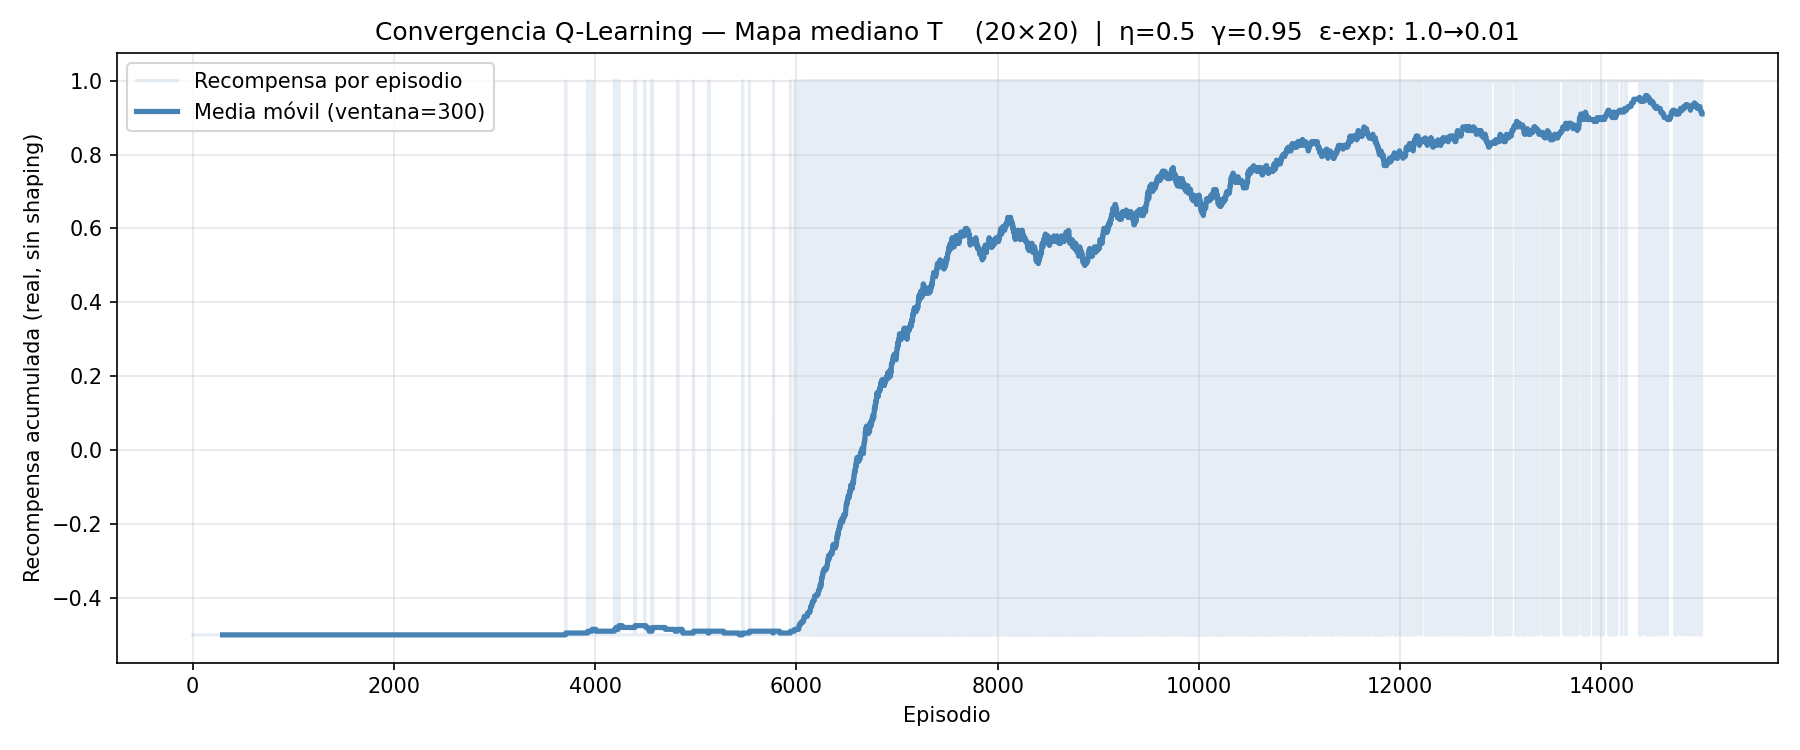
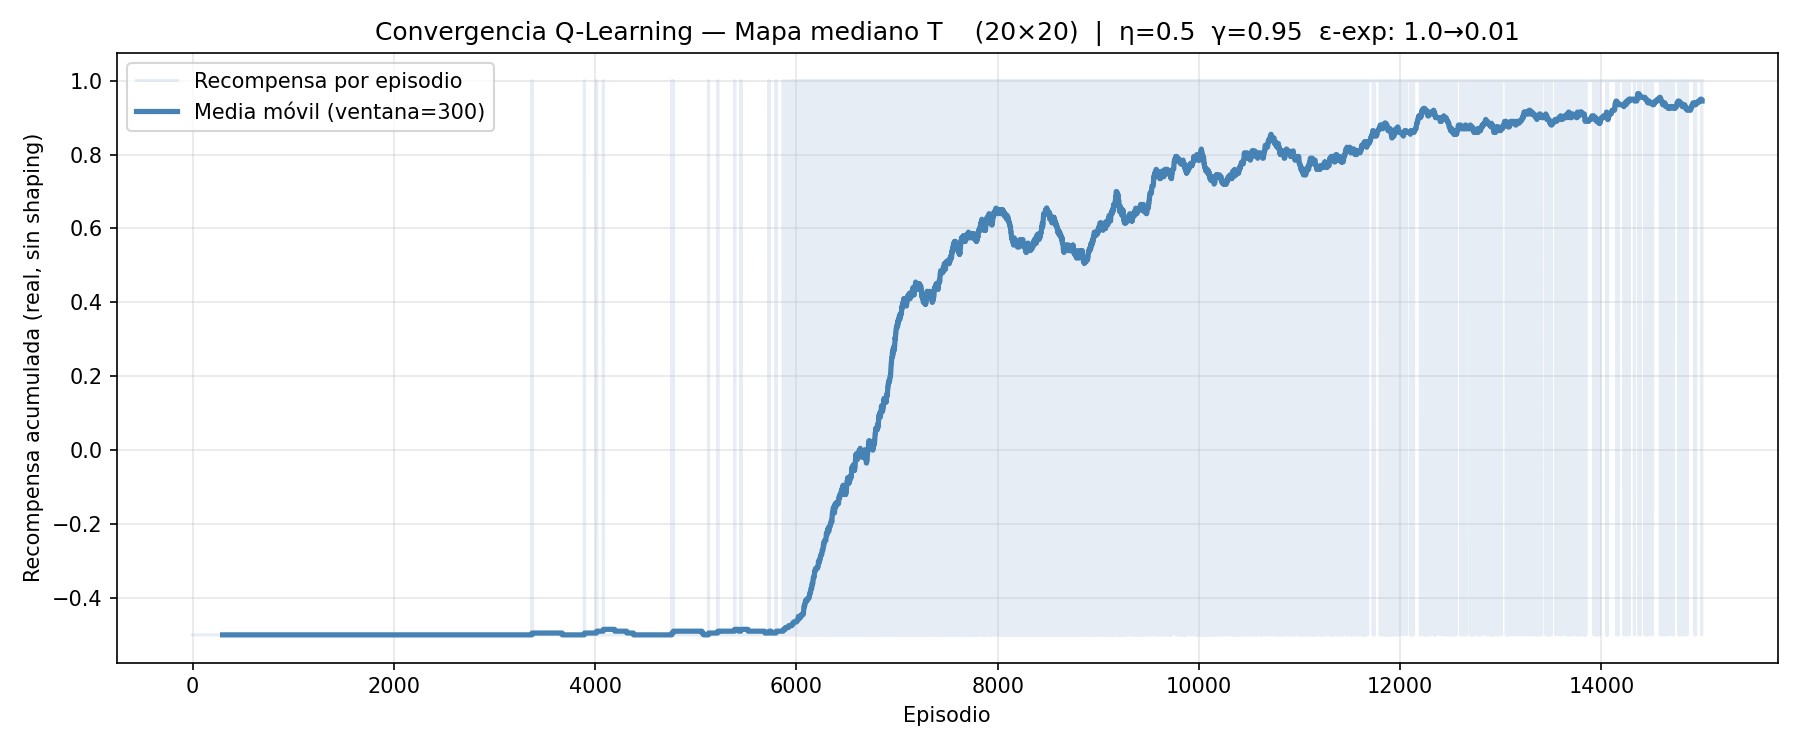
Objetivo conseguido

Changed region(s): [[0.5289, 0.1227, 0.9644, 0.368], [0.28, 0.4907, 0.4978, 0.8587], [0.4978, 0.3373, 0.5289, 0.46]]

diff --git a/simuladores_gymnasium/practica_gymnasium.py b/simuladores_gymnasium/practica_gymnasium.py
@@ -22,6 +22,7 @@ import argparse
 import gymnasium as gym
 import gymnasium_csv                                          # Entorno personalizado basado en CSV
 from gymnasium.spaces import Discrete
+from collections import deque
 
 class BoxToDiscreteObservation(gym.ObservationWrapper):
     def __init__(self, env):
@@ -90,15 +91,28 @@ MAPAS = {
         # Diseño: laberinto grid denso con muchos pasillos y giros
         # Requiere más episodios para explorar el laberinto
         epis          = 50000,
-        max_pasos     = 1000,
+        max_pasos     = 3000,
         epsilon_decay = 0.999908,
+    ),
+    5: dict(
+        nombre        = 'Mapa gigante      (50×50)',
+        archivo       = 'map5.csv',
+        initX=1,  initY=1,
+        goalX=48, goalY=48,
+        cols          = 50,
+        # 300k episodios cortos (1500 pasos): el agente encuentra la meta
+        # con alta probabilidad durante la fase de exploración (ε~0.4),
+        # luego la explotación refina el camino óptimo.
+        epis          = 400000,
+        max_pasos     = 1500,
+        epsilon_decay = 0.999985,  # ε llega a 0.01 en ~ep 300k
     ),
 }
 
 parser = argparse.ArgumentParser(description='Q-Learning en mapa CSV con Gymnasium')
 parser.add_argument(
-    '--mapa', type=int, default=1, choices=[1, 2, 3, 4],
-    help='Mapa a usar: 1=del profesor (12×12)  2=mediano-T (20×20)  3=grande-C (30×30)  4=laberinto (30×27)'
+    '--mapa', type=int, default=1, choices=[1, 2, 3, 4, 5],
+    help='Mapa a usar: 1=del profesor (12×12)  2=mediano-T (20×20)  3=grande-C (30×30)  4=laberinto (30×27)  5=gigante (50×50)'
 )
 args = parser.parse_args()
 cfg = MAPAS[args.mapa]   # Configuración del mapa elegido
@@ -129,13 +143,34 @@ env_train_raw = gym.make(
 )
 env_train = BoxToDiscreteObservation(env_train_raw)   # Obs (fila,col) → índice entero
 
+# --- Precomputar distancias BFS a la meta para un Reward Shaping perfecto ---
+# Extraemos el grid del entorno (0=libre, 1=muro, 2=inicio, 3=meta)
+grid = env_train_raw.unwrapped.inFile
+rows, cols = grid.shape
+bfs_distances = np.full((rows, cols), np.inf)
+queue = deque([(META_X, META_Y)])
+bfs_distances[META_X, META_Y] = 0.0
+
+# Direcciones: 4 cardinales + 4 diagonales
+directions = [(0,1), (0,-1), (1,0), (-1,0), (1,1), (1,-1), (-1,1), (-1,-1)]
+
+while queue:
+    r, c = queue.popleft()
+    d = bfs_distances[r, c]
+    for dr, dc in directions:
+        nr, nc = r + dr, c + dc
+        if 0 <= nr < rows and 0 <= nc < cols and grid[nr, nc] != 1 and bfs_distances[nr, nc] == np.inf:
+            bfs_distances[nr, nc] = d + 1.0
+            queue.append((nr, nc))
+
 # ---------------------------------------------------------------------------
 # 2. INICIALIZACIÓN DE LA Q-TABLE
 # ---------------------------------------------------------------------------
 
 # Dimensiones: nS estados × nA acciones
 # nS = filas × columnas del mapa  |  nA = 8 (8 direcciones cardinales + diagonales)
-Q = np.ones([env_train.observation_space.n, env_train.action_space.n]) * 2.0
+# Inicialización en 0.0 (ahora usamos reward shaping en vez de puro optimismo)
+Q = np.zeros([env_train.observation_space.n, env_train.action_space.n])
 
 # ---------------------------------------------------------------------------
 # 3. PARÁMETROS DEL ALGORITMO Q-LEARNING
@@ -168,9 +203,10 @@ for episodio in range(epis):
     terminado = False
     paso = 0
 
-    # Distancia Manhattan inicial al objetivo (para reward shaping)
+    # Distancia BFS inicial al objetivo (para reward shaping)
     fila_s, col_s = divmod(s, COLS)
-    dist_ant = abs(fila_s - META_X) + abs(col_s - META_Y)
+    dist_ant = bfs_distances[fila_s, col_s]
+    if dist_ant == np.inf: dist_ant = 1000.0  # fallback por si acaso
 
     while not terminado and paso < max_pasos:
         paso += 1
@@ -186,16 +222,25 @@ for episodio in range(epis):
         # --- Ejecutamos la acción en el entorno ---
         s1, recompensa, terminado, _, _ = env_train.step(accion)
 
-        # --- Actualización Q-Table: regla de Bellman con Inicialización Optimista ---
-        # Como Q empieza en 2.0 (muy optimista), el agente explorará sistemáticamente
-        # las rutas desconocidas porque sus valores Q bajarán cuando no encuentren la meta.
-        # Esto evita crear mínimos locales y hace innecesario el "reward shaping".
-        
+        # Distancia nueva para reward shaping (usando BFS)
+        fila_s1, col_s1 = divmod(s1, COLS)
+        dist_nueva = bfs_distances[fila_s1, col_s1]
+        if dist_nueva == np.inf: dist_nueva = 1000.0
+
+        # --- Actualización Q-Table con Reward Shaping ---
         # El futuro es nulo si chocamos contra un muro o llegamos a la meta
         futuro = 0.0 if terminado else np.max(Q[s1, :])
         
-        # Penalización por cada paso dado (-0.01) para forzar el camino más corto
-        recompensa_paso = (recompensa - 0.01) if not terminado else recompensa
+        # Reward shaping basado en acercarse/alejarse de la meta
+        # El coeficiente escala con el tamaño del mapa para que el gradiente
+        # sea siempre dominante frente a la penalización de paso (-0.01)
+        shaping_k = 0.5   # aumentado de 0.4 a 0.5 para asegurar avance
+        if not terminado:
+            shaping = shaping_k * (dist_ant - dist_nueva)
+            # Penalización por cada paso dado (-0.01) + Shaping guiado
+            recompensa_paso = (recompensa - 0.01) + shaping
+        else:
+            recompensa_paso = recompensa
 
         Q[s, accion] = Q[s, accion] + eta * (
             recompensa_paso + gamma * futuro - Q[s, accion]
@@ -203,6 +248,7 @@ for episodio in range(epis):
 
         recompensa_total += recompensa   # Guardamos recompensa REAL (sin shaping)
         s = s1
+        dist_ant = dist_nueva
 
     recompensas_por_episodio.append(recompensa_total)
     epsilon = max(epsilon_fin, epsilon * epsilon_decay)   # Decay exponencial
@@ -351,7 +397,12 @@ terminado = False
 paso = 0
 env_inner = env_demo_raw.unwrapped   # GridWorldEnv sin wrappers (acceso a pygame)
 
-while not terminado and paso < 200:
+# Límite de pasos de la demo: proporcional a la distancia Manhattan inicial al objetivo.
+# Al menos 300 pasos y como máximo 2000 para mapas muy grandes.
+dist_inicial = abs(INIT_X - GOAL_X) + abs(INIT_Y - GOAL_Y)
+limite_demo = max(300, min(2000, dist_inicial * 6))
+
+while not terminado and paso < limite_demo:
     paso += 1
     pos_antes   = env_inner._agent_location.copy()
     accion      = int(np.argmax(Q[s, :]))           # Mejor acción según Q-table
